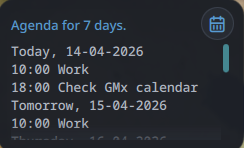
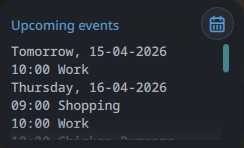
Updated logic to only show upcoming events, past are not shown

diff --git a/khal-agenda-widget/DesktopWidget.qml b/khal-agenda-widget/DesktopWidget.qml
@@ -23,7 +23,7 @@ DraggableDesktopWidget {
     // Main data process
     Process {
         id: calProc
-        command: ["sh", "-c", "khal list today 7d --format '{start-time} {title}' --day-format '{name}, {date}'"]
+        command: ["sh", "-c", "khal list --notstarted now 7d --format '{start-time} {title}' --day-format '{name}, {date}'"]
         // command: ["sh", "-c", "khal list today 7d --format '{start-end-time-style} {title}' --day-format '{name}, {date}'"]
         running: root.pluginApi !== null
         stdout: StdioCollector {
@@ -39,7 +39,7 @@ DraggableDesktopWidget {
             "for term in xdg-terminal-exec kitty alacritty foot gnome-terminal konsole st xterm; do " +
             "if command -v $term >/dev/null 2>&1; then " +
             "if [ \"$term\" = \"kitty\" ]; then " +
-            "exec kitty --class khal -e ikhal; " +
+            "exec kitty --config ~/.config/kitty/calendar.conf --class khal -e ikhal; " +
             "else " +
             "exec $term -e ikhal 2>/dev/null || exec $term -- ikhal; " +
             "fi; break; fi; done"

diff --git a/khal-agenda-widget/README.md b/khal-agenda-widget/README.md
@@ -4,7 +4,7 @@
 A theme aware Noctalia desktop plugin that displays agenda information.
 
 ## Features
-Shows the next 7 days of events.
+Shows upcoming events for the next 7 days of events.
 Icon click to open the full calendar.
 
 ## Configuration
